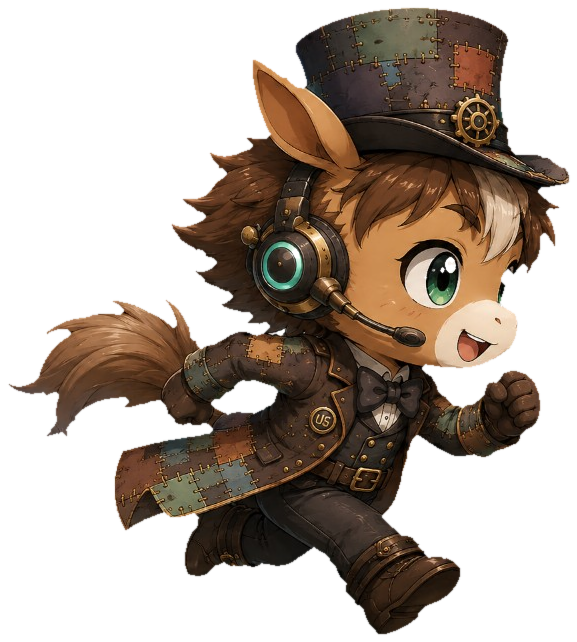
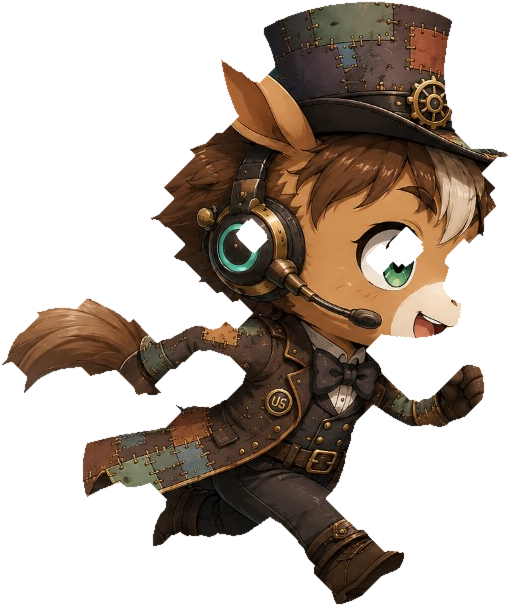
Fix mojibake on races/analysis, runner fringe, and sticky tab chrome.
Restore UTF-8 HTML corrupted by encoding-unsafe edits, clean the loading mascot alpha, and keep top/bottom chrome fixed on tab pages.

Changed region(s): [[0.0, 0.0, 1.0, 1.0]]

diff --git a/public/race.html b/public/race.html
@@ -7,9 +7,9 @@
   <link rel="preconnect" href="https://fonts.googleapis.com" />
   <link rel="preconnect" href="https://fonts.gstatic.com" crossorigin />
   <link href="https://fonts.googleapis.com/css2?family=Cormorant+Garamond:wght@500;600;700&family=Noto+Sans+JP:wght@400;500;600;700&display=swap" rel="stylesheet" />
-  <link rel="stylesheet" href="assets/styles.css" />
+  <link rel="stylesheet" href="assets/styles.css?v=17" />
   <link rel="stylesheet" href="assets/screens.css" />
-  <link rel="stylesheet" href="assets/ux.css?v=14" />
+  <link rel="stylesheet" href="assets/ux.css?v=15" />
   <link rel="stylesheet" href="assets/vqa.css" />
   <link rel="stylesheet" href="assets/v11.css?v=11" />
   <script src="assets/api/calendar-weekend.js?v=11"></script>
@@ -21,7 +21,7 @@
     }
   </script>
 </head>
-<body class="page-screen page-race-detail" data-nav="race">
+<body class="page-screen page-race-detail page-tab" data-nav="race">
   <div class="app">
     <header class="topbar">
       <div class="topbar-inner">
@@ -137,7 +137,7 @@
   <script src="assets/api/prediction-bind.js"></script>
   <script src="assets/api/analysis.js"></script>
   <script src="assets/api/analysis-bind.js"></script>
-  <script src="assets/ux.js?v=14"></script>
+  <script src="assets/ux.js?v=15"></script>
   <script src="assets/api/ui-features.js?v=11"></script>
   <script src="assets/v11.js?v=11"></script>
   <script src="assets/favorites.js"></script>

diff --git a/public/ops.html b/public/ops.html
@@ -7,14 +7,14 @@
   <link rel="preconnect" href="https://fonts.googleapis.com" />
   <link rel="preconnect" href="https://fonts.gstatic.com" crossorigin />
   <link href="https://fonts.googleapis.com/css2?family=Cormorant+Garamond:wght@500;600;700&family=Noto+Sans+JP:wght@400;500;600;700&display=swap" rel="stylesheet" />
-  <link rel="stylesheet" href="assets/styles.css" />
+  <link rel="stylesheet" href="assets/styles.css?v=17" />
   <link rel="stylesheet" href="assets/screens.css" />
-  <link rel="stylesheet" href="assets/ux.css?v=14" />
+  <link rel="stylesheet" href="assets/ux.css?v=15" />
   <link rel="stylesheet" href="assets/v11.css?v=11" />
   <script src="assets/auth.js"></script>
   <script>ExpectAuth.requireAuth();</script>
 </head>
-<body class="page-screen page-ops" data-nav="home">
+<body class="page-screen page-ops page-tab" data-nav="home">
   <div class="app">
     <header class="topbar">
       <div class="topbar-inner">
@@ -100,7 +100,7 @@
   <script src="assets/api/auth.js"></script>
   <script src="assets/api/ui-features.js?v=11"></script>
   <script src="assets/api/prediction.js"></script>
-  <script src="assets/ux.js?v=14"></script>
+  <script src="assets/ux.js?v=15"></script>
   <script src="assets/partials-nav.js"></script>
   <script>
     (function () {

diff --git a/public/index.html b/public/index.html
@@ -7,9 +7,9 @@
   <link rel="preconnect" href="https://fonts.googleapis.com" />
   <link rel="preconnect" href="https://fonts.gstatic.com" crossorigin />
   <link href="https://fonts.googleapis.com/css2?family=Cormorant+Garamond:wght@500;600;700&family=Noto+Sans+JP:wght@400;500;600;700&display=swap" rel="stylesheet" />
-  <link rel="stylesheet" href="assets/styles.css" />
+  <link rel="stylesheet" href="assets/styles.css?v=17" />
   <link rel="stylesheet" href="assets/screens.css" />
-  <link rel="stylesheet" href="assets/ux.css?v=14" />
+  <link rel="stylesheet" href="assets/ux.css?v=15" />
   <link rel="stylesheet" href="assets/vqa.css" />
   <link rel="stylesheet" href="assets/v11.css?v=11" />
   <link rel="stylesheet" href="assets/onboarding.css" />
@@ -247,7 +247,7 @@
   <script src="assets/api/prediction-bind.js"></script>
   <script src="assets/api/user.js"></script>
   <script src="assets/api/real-data-bind.js"></script>
-  <script src="assets/ux.js?v=14"></script>
+  <script src="assets/ux.js?v=15"></script>
   <script src="assets/api/ui-features.js?v=11"></script>
   <script src="assets/v11.js?v=11"></script>
   <script src="assets/app.js"></script>

diff --git a/public/strategy.html b/public/strategy.html
@@ -7,7 +7,7 @@
   <link rel="preconnect" href="https://fonts.googleapis.com" />
   <link rel="preconnect" href="https://fonts.gstatic.com" crossorigin />
   <link href="https://fonts.googleapis.com/css2?family=Cormorant+Garamond:wght@500;600;700&family=Noto+Sans+JP:wght@400;500;600;700&display=swap" rel="stylesheet" />
-  <link rel="stylesheet" href="assets/styles.css" />
+  <link rel="stylesheet" href="assets/styles.css?v=17" />
   <link rel="stylesheet" href="assets/screens.css" />
   <script src="assets/api/calendar-weekend.js?v=11"></script>
   <script src="assets/auto-maintenance.js?v=11.3"></script>
@@ -18,7 +18,7 @@
     }
   </script>
 </head>
-<body class="page-screen page-strategy" data-nav="race">
+<body class="page-screen page-strategy page-tab" data-nav="race">
   <div class="app">
     <header class="topbar">
       <div class="topbar-inner">

diff --git a/public/assets/styles.css b/public/assets/styles.css
@@ -1629,6 +1629,7 @@ details.fold > summary::-webkit-details-marker { display: none; }
 /* メインタブ画面: 上ヘッダー・下ナビを固定し、中央だけ縦スクロール */
 .page-tab {
   height: 100dvh;
+  max-height: 100dvh;
   overflow: hidden;
 }
 
@@ -1643,7 +1644,10 @@ details.fold > summary::-webkit-details-marker { display: none; }
 }
 
 .page-tab .topbar {
+  position: sticky;
+  top: 0;
   flex-shrink: 0;
+  z-index: 40;
 }
 
 .page-tab .screen,
@@ -1666,9 +1670,12 @@ details.fold > summary::-webkit-details-marker { display: none; }
 }
 
 .page-tab .bottom-nav {
-  position: relative;
+  position: sticky;
+  bottom: 0;
   flex-shrink: 0;
   width: 100%;
+  z-index: 40;
+  margin-top: auto;
 }
 
 body.v11-mobile.page-tab .app {

diff --git a/public/assets/ux.css b/public/assets/ux.css
@@ -70,10 +70,18 @@
   width: 72px;
   height: 72px;
   object-fit: contain;
+  object-position: center bottom;
   pointer-events: none;
   z-index: 2;
   transform: translateX(-50%);
-  filter: drop-shadow(0 4px 8px rgba(0, 0, 0, 0.45));
+  background: transparent !important;
+  border: 0 !important;
+  outline: none;
+  box-shadow: none;
+  /* 端の白フチをわずかにマスクして落とす */
+  -webkit-mask-image: radial-gradient(ellipse 78% 82% at 50% 54%, #000 68%, transparent 86%);
+  mask-image: radial-gradient(ellipse 78% 82% at 50% 54%, #000 68%, transparent 86%);
+  filter: drop-shadow(0 3px 6px rgba(0, 0, 0, 0.4));
   will-change: left, transform;
 }
 

diff --git a/public/fortune.html b/public/fortune.html
@@ -7,7 +7,7 @@
   <link rel="preconnect" href="https://fonts.googleapis.com" />
   <link rel="preconnect" href="https://fonts.gstatic.com" crossorigin />
   <link href="https://fonts.googleapis.com/css2?family=Cormorant+Garamond:wght@500;600;700&family=Noto+Sans+JP:wght@400;500;600;700&display=swap" rel="stylesheet" />
-  <link rel="stylesheet" href="assets/styles.css" />
+  <link rel="stylesheet" href="assets/styles.css?v=17" />
   <link rel="stylesheet" href="assets/screens.css" />
   <script src="assets/api/calendar-weekend.js?v=11"></script>
   <script src="assets/auto-maintenance.js?v=11.5"></script>

diff --git a/public/mypage.html b/public/mypage.html
@@ -7,7 +7,7 @@
   <link rel="preconnect" href="https://fonts.googleapis.com" />
   <link rel="preconnect" href="https://fonts.gstatic.com" crossorigin />
   <link href="https://fonts.googleapis.com/css2?family=Cormorant+Garamond:wght@500;600;700&family=Noto+Sans+JP:wght@400;500;600;700&display=swap" rel="stylesheet" />
-  <link rel="stylesheet" href="assets/styles.css" />
+  <link rel="stylesheet" href="assets/styles.css?v=17" />
   <link rel="stylesheet" href="assets/screens.css" />
   <script src="assets/api/calendar-weekend.js?v=11"></script>
   <script src="assets/auto-maintenance.js?v=11.3"></script>

diff --git a/public/saved.html b/public/saved.html
@@ -7,7 +7,7 @@
   <link rel="preconnect" href="https://fonts.googleapis.com" />
   <link rel="preconnect" href="https://fonts.gstatic.com" crossorigin />
   <link href="https://fonts.googleapis.com/css2?family=Cormorant+Garamond:wght@500;600;700&family=Noto+Sans+JP:wght@400;500;600;700&display=swap" rel="stylesheet" />
-  <link rel="stylesheet" href="assets/styles.css" />
+  <link rel="stylesheet" href="assets/styles.css?v=17" />
   <link rel="stylesheet" href="assets/screens.css" />
   <script src="assets/api/calendar-weekend.js?v=11"></script>
   <script src="assets/auto-maintenance.js?v=11.3"></script>
